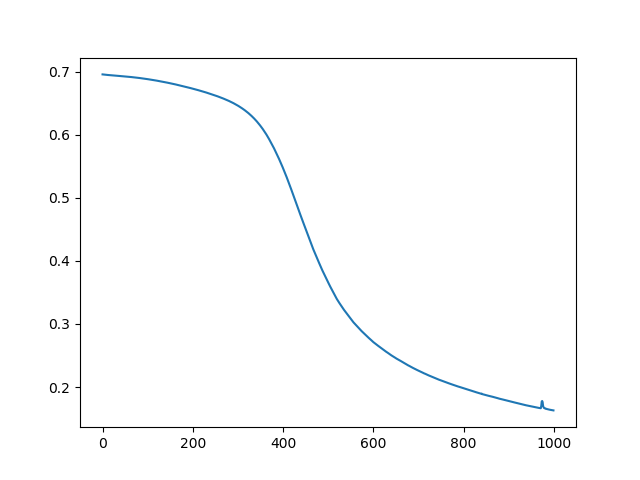
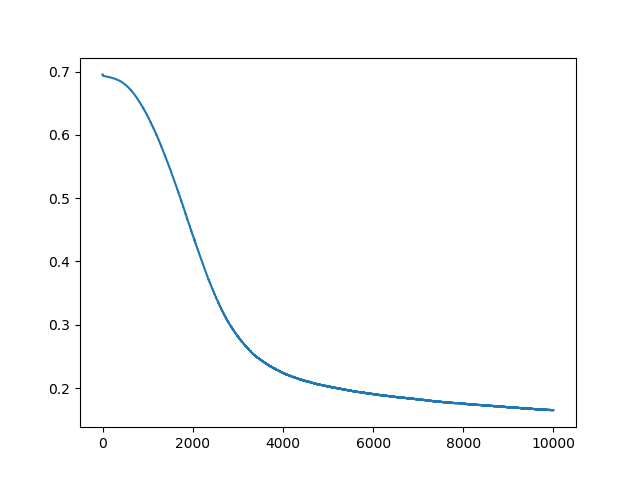
see train.py

diff --git a/src/train.py b/src/train.py
@@ -1,3 +1,11 @@
+"""
+change log:
+add softmax in model
+omit sigmoid
+opt with X feed into model together
+use test set loss
+"""
+
 import time
 
 import data as Data
@@ -11,30 +19,33 @@ from sklearn.metrics import f1_score, precision_score, recall_score
 device = 'cuda'
 
 def train_iter(data,model,criterion,optimizer,batch_size,voc_size):
-    [dataset_X,dataset_opt,dataset_gd],datset_size = data.get_train_data()
+    [dataset_X,dataset_opt,dataset_gt],datset_size = data.get_train_data()
     loss = 0
     losses = list()
     for i in range(0,datset_size - batch_size,batch_size):
         #time
         begin_time = time.time()
 
-        # padding X with `voc_size`
+        # get gd & opt
+        gt = dataset_gt[i : i + batch_size]
+        opt = dataset_opt[i : i + batch_size]
+        gt = torch.LongTensor(gt).to(device)
+
+        # append opt to X
         X = dataset_X[i : i + batch_size]
+        [X[index].append(opt[index]) for index in range(batch_size)]
+
+        # padding X with `voc_size`
         lens = torch.tensor([len(X[i]) for i in range(len(X))]).to(device)
         max_len = max([len(X[i]) for i in range(len(X))])
         X = [xiter + [voc_size for _ in range(max_len - len(xiter))] for xiter in X]
         X = torch.tensor(X).to(device)
 
-        gd = dataset_gd[i : i + batch_size]
-        gd = torch.LongTensor(gd).to(device)
-        opt = dataset_opt[i : i + batch_size]
-        opt = torch.tensor(opt).to(device)
-
-        output = model(X,opt,lens)
+        output = model(X,lens)
         
         #optim
         optimizer.zero_grad()
-        loss = criterion(output,gd)
+        loss = criterion(output,gt)
         loss.backward()
         optimizer.step()
         
@@ -45,57 +56,69 @@ def train_iter(data,model,criterion,optimizer,batch_size,voc_size):
     return np.average(losses)
 
 def train(max_epoch,batch_size = 5):
-    loss = list()
-    f1 = list()
+    loss = [1,]
     data = Data.Data(n_for_1 = 2)
     voc_size = data.get_voc_size()
     model = Model.Encoder(batch_size = batch_size,voc_size = voc_size, hidden_size = 100, device = device ,n_layers = 1,dropout = 0).to(device)
-    for _ in range(max_epoch):
-        print('epoch :',_)
-        criterion = nn.CrossEntropyLoss()
-        optimizer = torch.optim.SGD(model.parameters(),lr = 0.001)
+    criterion = nn.CrossEntropyLoss()
+    optimizer = torch.optim.SGD(model.parameters(),lr = 0.001)
+    epoch_count = 0
+    increase_count = 0
+    while True:
+        print('epoch :',epoch_count)
 
-        loss.append(train_iter(data,model,criterion,optimizer,batch_size,voc_size))
-        print(_,loss[-1])
+        train_iter(data,model,criterion,optimizer,batch_size,voc_size)
 
-        if _ % 100 == 0:
-            f1.append(sample(dataset = data, model = model,batch_size = batch_size))
-        if _ % 1000 == 0:
-            torch.save(model.state_dict(),"./model" + str(_))
-    torch.save(model.state_dict(),"./model" + str(time.time))
+        # sample
+        loss.append(sample(dataset = data, model = model,batch_size = batch_size,criterion = criterion))
+        print(loss[-1]," ")
+        torch.save(model.state_dict(),"../ckpt/model" + str(epoch_count))
+
+        # judge whether stop or not
+        if loss[-2] < loss[-1]:
+            increase_count += 1
+            if increase_count > 10 and epoch_count > 3000:
+                break
+        else:
+            increase_count = 0
+        
+        # increase epoch count
+        epoch_count += 1
+
     plt.plot(loss)
     plt.show()
 
-def sample(dataset,model,batch_size):
+def sample(dataset,model,batch_size,criterion):
     voc_size = dataset.get_voc_size()
     [dataset_X,dataset_opt,dataset_gt],datset_size = dataset.get_test_data()
     y_gt = [] #ground truth
     y_pd = [] #prediction
-    softmax = torch.nn.Softmax(dim = 1).cuda()
     for i in range(0,datset_size - batch_size,batch_size):
-        # padding X with `voc_size`
+
+        # get gd & opt
+        gt = dataset_gt[i : i + batch_size]
+        opt = dataset_opt[i : i + batch_size]
+        gt = torch.LongTensor(gt).to(device)
+
+        # append opt to X
         X = dataset_X[i : i + batch_size]
+        [X[index].append(opt[index]) for index in range(batch_size)]
+
+        # padding X with `voc_size`
         lens = torch.tensor([len(X[i]) for i in range(len(X))]).to(device)
         max_len = max([len(X[i]) for i in range(len(X))])
         X = [xiter + [voc_size for _ in range(max_len - len(xiter))] for xiter in X]
         X = torch.tensor(X).to(device)
 
-        gt = dataset_gt[i : i + batch_size]
-        gt = torch.LongTensor(gt).to(device)
-        opt = dataset_opt[i : i + batch_size]
-        opt = torch.LongTensor(opt).to(device)
-
-        output = model(X,opt,lens)
+        output = model(X,lens)
 
         y_gt += gt.tolist()
-        y_pd += [pd[1] > 0.5 for pd in softmax(output).tolist()]
+        y_pd += output.tolist()
 
-    f1 = f1_score(y_gt, y_pd)
-    print('\r\t\t\t\t\t\t\t\tF1: {}'.format(f1))
-    #print('Precision: {}'.format(precision_score(y_gt, y_pd)))
-    #print('Recall: {}'.format(recall_score(y_gt, y_pd)))
-    return f1
-
+    y_gt = torch.tensor(y_gt)
+    y_pd = torch.tensor(y_pd)
+    loss = criterion(y_pd,y_gt)
+    return loss.item()
 
 if __name__ == "__main__":
     train(max_epoch=10000,batch_size=50)

diff --git a/src/model.py b/src/model.py
@@ -15,8 +15,7 @@ class Encoder(nn.Module):
         self.dropout = dropout
         self.gru = nn.GRU(hidden_size, hidden_size, n_layers,batch_first=True,dropout=(0 if n_layers == 1 else dropout)).to(self.device)
         self.attn_linear = nn.Linear(self.hidden_size,self.hidden_size).to(self.device)
-        self.attn = self.attention_net # dont know work or not
-        self.sigmoid = nn.Sigmoid()
+        self.attn = self.attention_net
         self.out = nn.Linear(self.hidden_size,2).to(self.device)
     
     # attention net
@@ -42,14 +41,10 @@ class Encoder(nn.Module):
         new_hidden_state = torch.bmm(soft_attn_weights,input).to(self.device) # [batch size, n_layer(1), max length]
         return new_hidden_state
 
-    def forward(self,input,opt,lens):
+    def forward(self,input,lens):
         
         # embed
         input_embedded = self.embedding(input).to(self.device)
-        opt_embedded = self.embedding(opt).to(self.device)
-
-        # add length dim
-        opt_embedded = opt_embedded.unsqueeze(1).to(self.device)
 
         # pad
         input_packed = pack_padded_sequence(input_embedded, lens, batch_first=True,enforce_sorted=False).to(self.device)
@@ -60,19 +55,13 @@ class Encoder(nn.Module):
         # concat gru_output with opt
         output_unpacked,_ = pad_packed_sequence(gru_output_packed, batch_first=True)
 
-        # add opt tensor to the begining
-        concat_output = torch.cat((opt_embedded, output_unpacked),dim = 1).to(self.device)
-
         # feed into attn
-        attn_output = self.attn(concat_output,hidden,lens)
-        
-        # sigmoid attn output
-        sigmoid_output = self.sigmoid(attn_output).to(self.device)
+        attn_output = self.attn(output_unpacked,hidden,lens)
 
         # omit length dim
-        out = self.out(sigmoid_output).squeeze(1).to(self.device)
+        out = self.out(attn_output).squeeze(1).to(self.device)
 
-        # according to help(nn.CrossEntropyLoss), output need not do softmax
-        #out = F.softmax(out)
+        # softmax
+        out = F.softmax(out,dim = 1)
 
         return out

diff --git a/src/data.py b/src/data.py
@@ -1,5 +1,3 @@
-import random
-
 import preprocess
 
 class Data:
@@ -13,7 +11,6 @@ class Data:
         riddles = preprocess.read_n_for_1_dataset(n_for_1) #[[谜面，谜底，选项],]
         riddles = self.construct_classify_riddle_set(riddles) #[[谜面，答案，地信],]
         num_riddle = len(riddles)
-        random.shuffle(riddles)
         one_tenth = num_riddle // 10
         train = riddles[0:one_tenth * 8]
         valid = riddles[one_tenth * 8 : one_tenth * 9]
@@ -57,13 +54,10 @@ class Data:
     #
     ####################
     def get_train_data(self):
-        random.shuffle(self.train)
         return [ [riddle[i] for riddle in self.train] for i in range(3) ],len(self.train)
 
     def get_valid_data(self):
-        random.shuffle(self.valid)
         return [ [riddle[i] for riddle in self.valid] for i in range(3) ],len(self.valid)
 
     def get_test_data(self):
-        random.shuffle(self.test)
         return [ [riddle[i] for riddle in self.test] for i in range(3) ],len(self.test)
